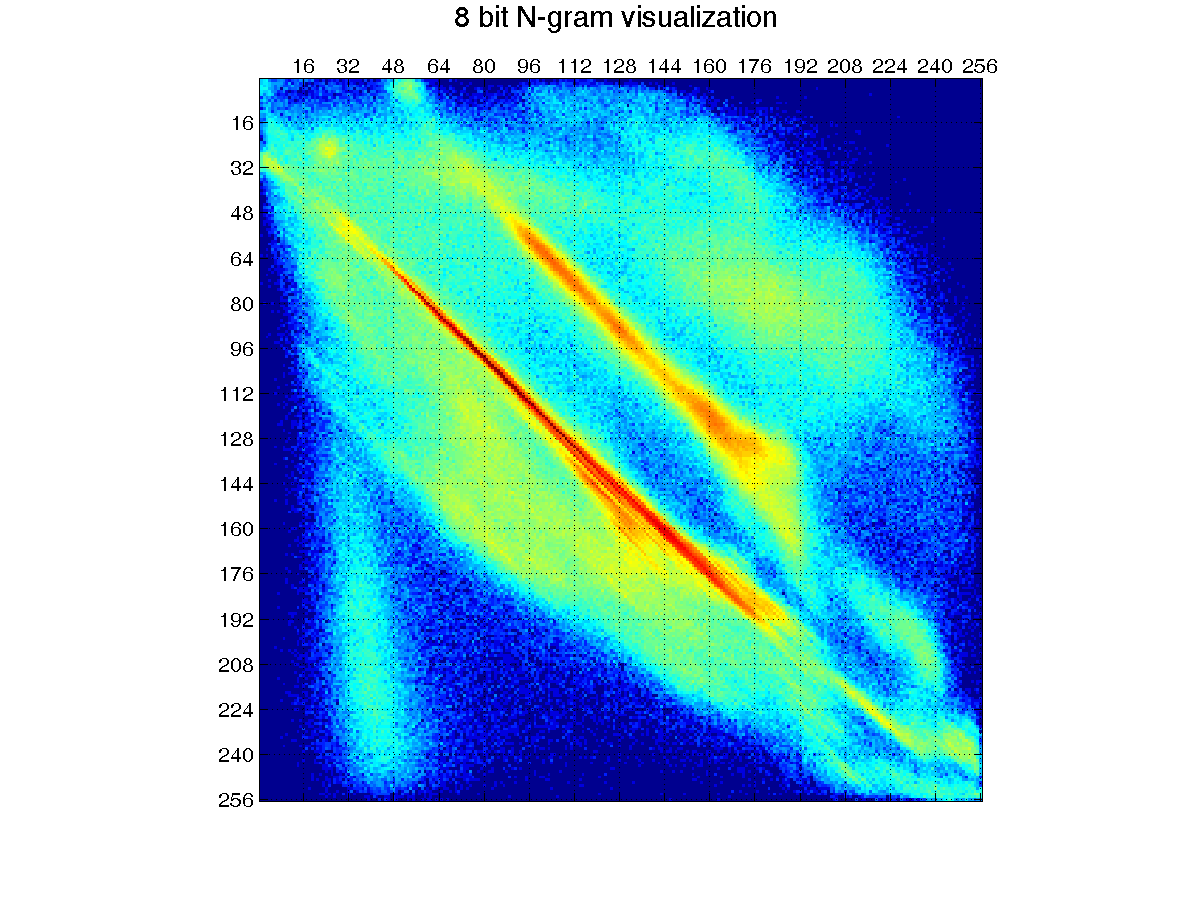
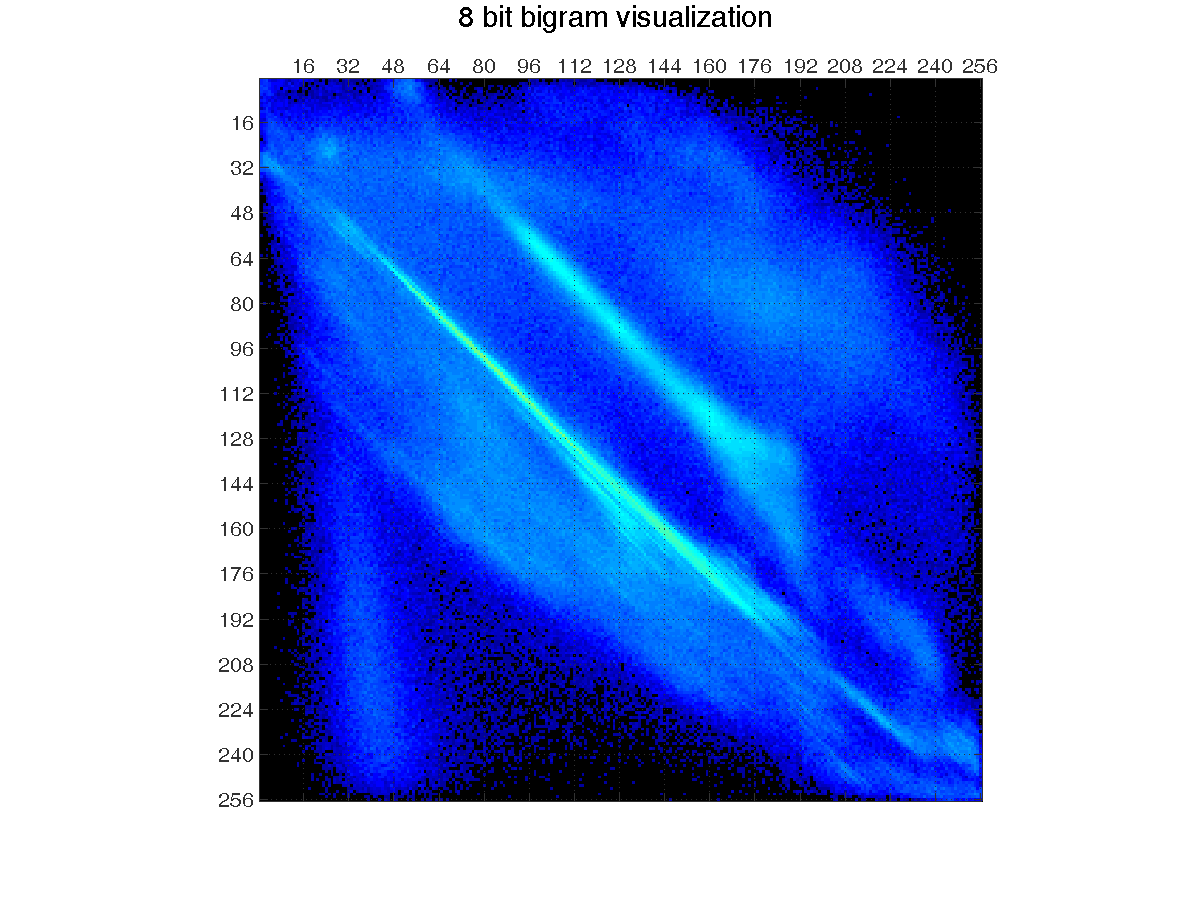
Tweaked visualization settings and colormap. Updated screen captures and readme.

diff --git a/visualize/visualizeNgram.m b/visualize/visualizeNgram.m
@@ -17,22 +17,30 @@ switch N
         h = bar(gram,'EdgeColor',color,'FaceColor',color);
         uistack(h,'bottom')
         axis([1 length(gram) 0 maxG]);
+        type = 'unigram';
     case 2
         image(gram.*(64/maxG));
         set(gca,'XAxisLocation','top');
         axis square;
         set(gca,'YTick',0:16:length(gram))
+        cmap = colormap;
+        cmap(1,:) = [0 0 0];
+        colormap(cmap);
+        type = 'bigram';
     case 3
         for i=1:size(gram,3)-3
             avg = 1.0*gram(:,:,i) + 0.5*gram(:,:,i+1) + 0.25*gram(:,:,i+2) + 0.25*gram(:,:,i+3);
             visualizeNgram( avg );
             drawnow;
         end
+        type = 'trigram';
 end
 
 set(gca,'XTick',0:16:length(gram))
 grid on;
+set(gca,'Xcolor',[0.2 0.2 0.2]);
+set(gca,'Ycolor',[0.2 0.2 0.2]);
 bits = log2(size(gram,1));
-title([ num2str(bits) ' bit N-gram visualization '],'FontSize',14);
+title([ num2str(bits) ' bit ' type ' visualization '],'FontSize',14);
 
 end

diff --git a/visualize/visualizeUnigram.m b/visualize/visualizeUnigram.m
@@ -3,12 +3,13 @@ function visualizeUnigram( bytes )
 
 N=1;
 gram = ones(256,1);
+blockSz = floor(length(bytes)/(1024*63));
 block = 1;
 cmap = colormap;
 for i=1:length(bytes)-N
     val1 = bytes(i)+1;
     gram(val1) = gram(val1) + 1;
-    if(mod(i,1024*14) ==  0)
+    if(mod(i,1024*blockSz) ==  0)
         visualizeNgram( gram, cmap(block,:) );
         block = block + 1;
         hold on;

diff --git a/testMethods.m b/testMethods.m
@@ -27,7 +27,7 @@ visualizeNgram( unigram );
 %% Bigram
 figure;
 
-filename = 'files/image.ppm';
+filename = 'files/text.txt';
 
 bitDepth = 8;
 offset = 1;
@@ -90,8 +90,8 @@ fclose(fileID);
 
 visualizeBytes( Hbytes );
 
-filtered = entropyFilt( Hbytes );
-imagesc(filtered);
+%filtered = entropyFilt( Hbytes );
+%imagesc(filtered);
 
 %% Scratch pad
 

diff --git a/visualize/visualizeBytes.m b/visualize/visualizeBytes.m
@@ -22,6 +22,7 @@ colorbar;
 hcb=colorbar;
 set(hcb,'YTick',[1, 80, 180, 255])
 set(hcb,'YTickLabel',{'Null','Printable Chars.','Other','255'});
+title('Byte class visualization','FontSize',14);
 
 end
 

diff --git a/readme.md b/readme.md
@@ -11,5 +11,12 @@ Methods include:
 +   File entropy visualization
 
 Sample 8-bit Bigrams:
-![Image Bigram](/captures/bigram_image_ppm.png?raw=true "Uncompressed Image file")
-![Text Bigram](/captures/bigram_text_txt.png?raw=true "ASCII text file")
+![Image Bigram](/captures/bigram_image_ppm.png?raw=true "Uncompressed Image file" =450x)
+![Text Bigram](/captures/bigram_text_txt.png?raw=true "ASCII text file" =450x)
+![EXE Bigram](/captures/bigram_exe.png?raw=true "Executable bigram" =450x)
+
+Sample 8-bit Special Unigram:
+![EXE Unigram](/captures/unigram_exe.png?raw=true "Executable unigram (special)" =450x)
+
+Sample Byte Class Diagram:
+![Byte class](/captures/byte_class.png?raw=true "Executable bigram" =450x)
